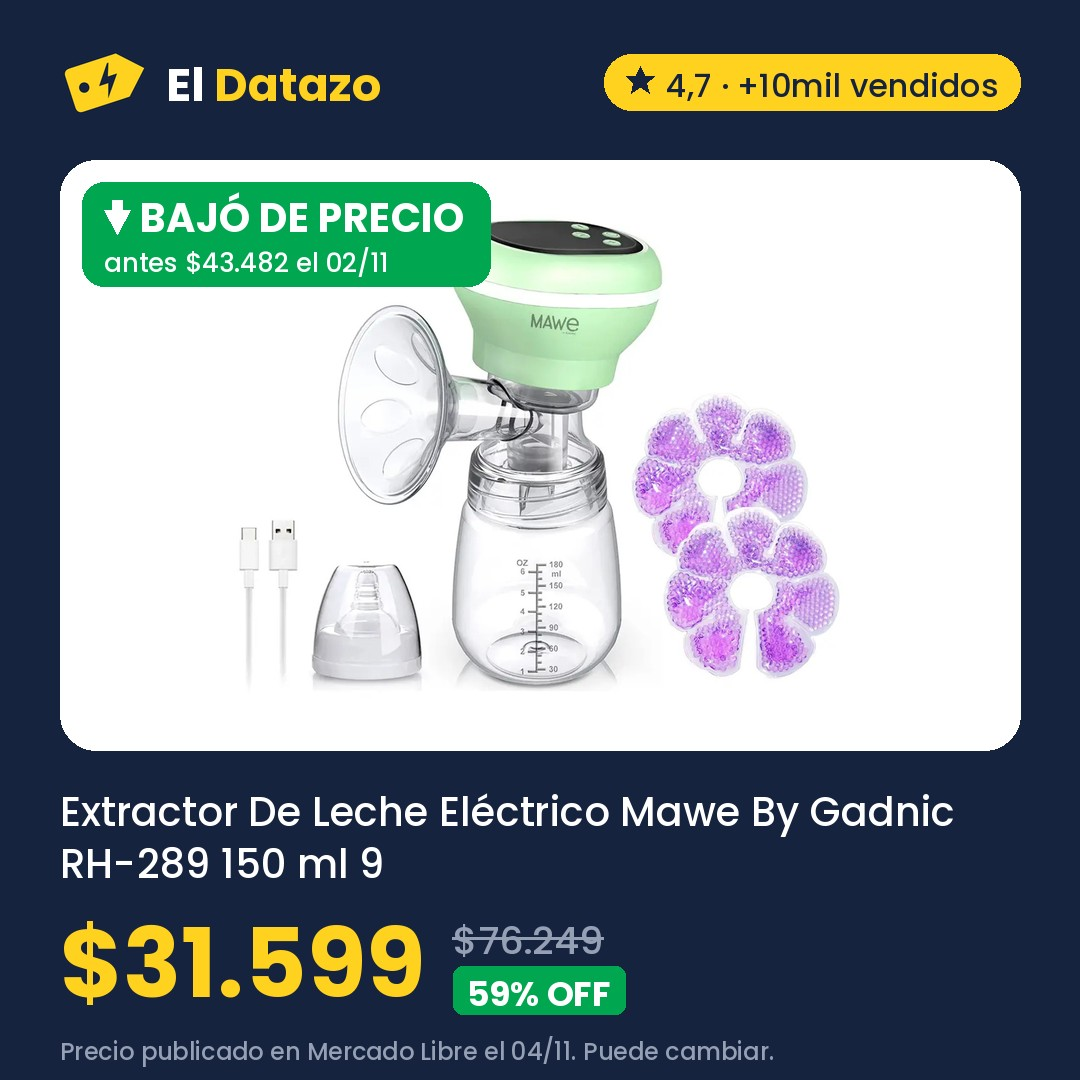
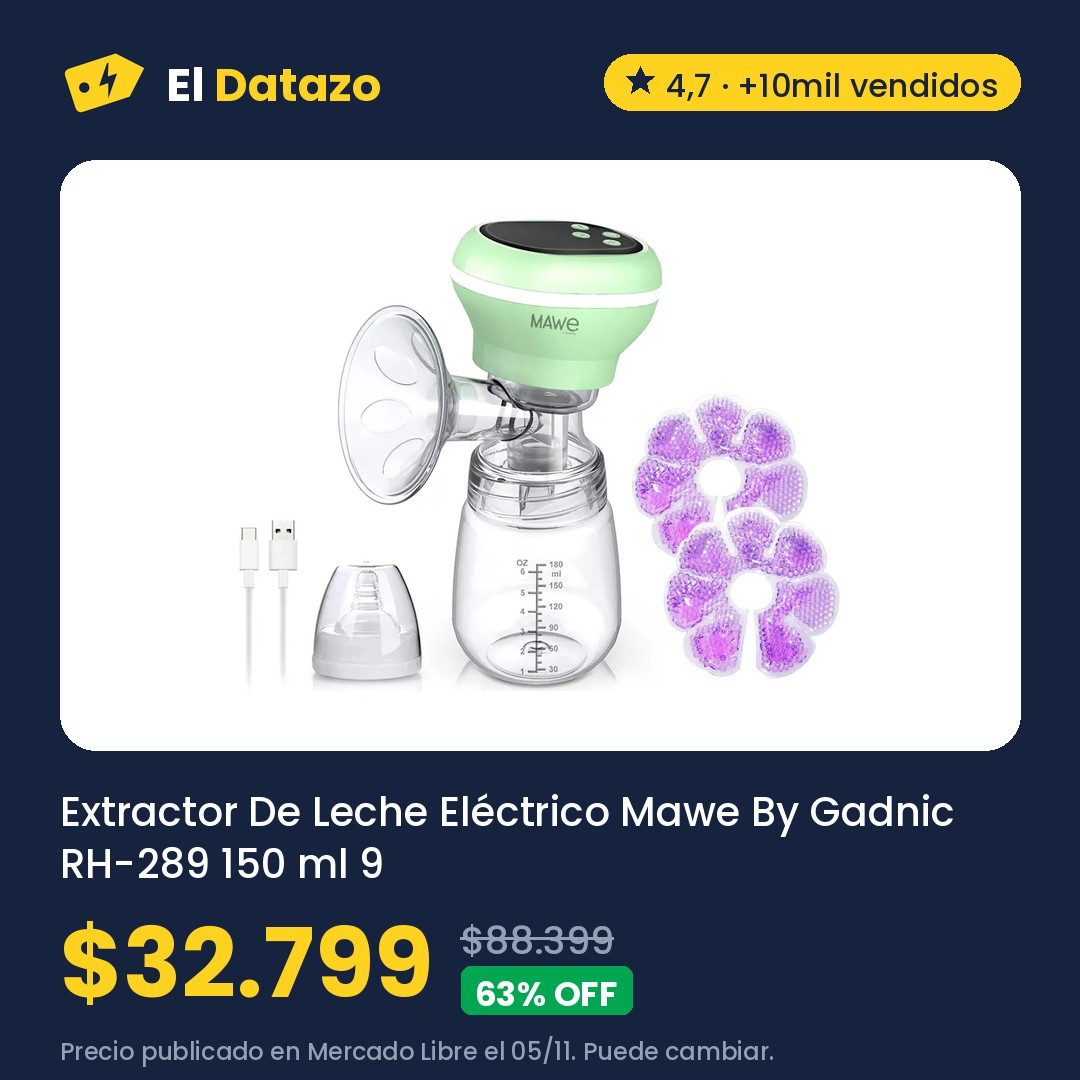
Ofertas 2026-11-05 23:31

Changed region(s): [[0.0611, 0.1528, 0.4583, 0.275], [0.1528, 0.8556, 0.6111, 0.9778]]

diff --git a/index.html b/index.html
@@ -290,23 +290,21 @@ padding:3px 9px;border-radius:999px}
     <div class="etiqueta">
       <p class="etiqueta-cabeza">El datazo de hoy <span class="sello">Quedan 6 días</span></p>
       <h2 id="hero-titulo">Extractor De Leche Eléctrico Mawe By Gadnic RH-289 150 ml 9 Niveles Pantalla LED Batería Recargable 1200mAh</h2>
-      <p class="hero-precio">$31.599</p>
-      <p class="hero-antes"><s>$76.249</s> <span class="off">59% OFF</span></p>
-      <p class="bajo pastilla"><b>⬇ Volvió y bajó</b> · Antes $43.482 el 02/11 · 27% menos</p>
-      <p class="nota">Precio del 04/11 en Mercado Libre, revisado hoy a las 16:32. Puede cambiar.</p>
+      <p class="hero-precio">$32.799</p>
+      <p class="hero-antes"><s>$88.399</s> <span class="off">63% OFF</span></p>
+      <p class="bajo pastilla"><b>⬇ Volvió</b> · Había terminado y volvió al mismo precio</p>
+      <p class="nota">Precio de hoy a las 20:31 en Mercado Libre. Puede cambiar.</p>
       <a class="boton oscuro" href="https://meli.la/314C11i" rel="sponsored noopener" target="_blank"
          data-oferta="MLA47200126">Ver oferta en Mercado Libre</a>
-      <a class="compartir" href="https://wa.me/?text=Mir%C3%A1%20este%20datazo%3A%20Extractor%20De%20Leche%20El%C3%A9ctrico%20Mawe%20By%20Gadnic%20RH-289%20150%20ml%209%20Niveles%20Pantalla%20LED%20Bater%C3%ADa%20Recargable%201200mAh%20a%20%2431.599%20https%3A//eldatazo.com.ar/%23MLA47200126" target="_blank" rel="noopener" data-estilo="texto"><svg viewBox="0 0 24 24" width="16" height="16" aria-hidden="true"><path d="M4 20l1.3-4A8 8 0 1 1 8 18.7L4 20z" fill="none" stroke="currentColor" stroke-width="2" stroke-linejoin="round"/></svg> Compartir por WhatsApp</a>
+      <a class="compartir" href="https://wa.me/?text=Mir%C3%A1%20este%20datazo%3A%20Extractor%20De%20Leche%20El%C3%A9ctrico%20Mawe%20By%20Gadnic%20RH-289%20150%20ml%209%20Niveles%20Pantalla%20LED%20Bater%C3%ADa%20Recargable%201200mAh%20a%20%2432.799%20https%3A//eldatazo.com.ar/%23MLA47200126" target="_blank" rel="noopener" data-estilo="texto"><svg viewBox="0 0 24 24" width="16" height="16" aria-hidden="true"><path d="M4 20l1.3-4A8 8 0 1 1 8 18.7L4 20z" fill="none" stroke="currentColor" stroke-width="2" stroke-linejoin="round"/></svg> Compartir por WhatsApp</a>
     </div>
   </section>
       
   <section class="franja-bajo" aria-labelledby="bajo-titulo">
-    <h2 id="bajo-titulo">⬇ Bajaron de precio <span>17</span></h2>
+    <h2 id="bajo-titulo">⬇ Bajaron de precio <span>18</span></h2>
     <ul class="franja-lista">
         <li><a href="#MLA73800060"><img src="img/MLA73800060.jpg" alt="" loading="lazy">
           <span><b>Libro: Primero Yo, Después El Resto: 120 Sesiones De Verdad</b><span class="ahora">$17.000</span><s>$33.000</s> <span class="bajo">⬇ Bajó</span></span></a></li>
-        <li><a href="#MLA47200126"><img src="img/MLA47200126.jpg" alt="" loading="lazy">
-          <span><b>Extractor De Leche Eléctrico Mawe By Gadnic RH-289 150 ml 9 Niveles Pantalla LED Batería Recargable 1200mAh</b><span class="ahora">$31.599</span><s>$43.482</s> <span class="bajo">⬇ Volvió y bajó</span></span></a></li>
         <li><a href="#MLA24729106"><img src="img/MLA24729106.jpg" alt="" loading="lazy">
           <span><b>Crique Hidraulico Carrito Gato Para Autos 2 Tn Mejor Calidad</b><span class="ahora">$47.890</span><s>$54.533</s> <span class="bajo">⬇ Bajó</span></span></a></li>
         <li><a href="#MLA19719361"><img src="img/MLA19719361.jpg" alt="" loading="lazy">
@@ -319,15 +317,16 @@ padding:3px 9px;border-radius:999px}
           <span><b>Cámara Digital Kodak Charmera RK0601 Retro Compacta para Llavero y Video</b><span class="ahora">$54.454</span><s>$57.573</s> <span class="bajo">⬇ Bajó</span></span></a></li>
         <li><a href="#MLA43803009"><img src="img/MLA43803009.jpg" alt="" loading="lazy">
           <span><b>Mochila Viaje Carry On Avion Porta Notebook Waggs Negro Lisa</b><span class="ahora">$45.087</span><s>$46.799</s> <span class="bajo">⬇ Volvió y bajó</span></span></a></li>
+        <li><a href="#MLA26204453"><img src="img/MLA26204453.jpg" alt="" loading="lazy">
+          <span><b>Bomba Desagote Agua Sucia Vasser De 400ps 400 Watts</b><span class="ahora">$68.843</span> <span class="bajo">⬇ Volvió</span></span></a></li>
+        <li><a href="#MLA47200126"><img src="img/MLA47200126.jpg" alt="" loading="lazy">
+          <span><b>Extractor De Leche Eléctrico Mawe By Gadnic RH-289 150 ml 9 Niveles Pantalla LED Batería Recargable 1200mAh</b><span class="ahora">$32.799</span> <span class="bajo">⬇ Volvió</span></span></a></li>
         <li><a href="#MLA22130330"><img src="img/MLA22130330.jpg" alt="" loading="lazy">
           <span><b>Buclera de Pelo Gadnic B3000 Rizador 3 Tubos 25 mm 150W 180 210 C</b><span class="ahora">$44.463</span> <span class="bajo">⬇ Volvió</span></span></a></li>
         <li><a href="#MLA28878536"><img src="img/MLA28878536.jpg" alt="" loading="lazy">
           <span><b>BOTIQUÍN DE BAÑO TRENTO AMUBE 30x50 CM | Espejo y Repisa | Melamina Blanca</b><span class="ahora">$44.999</span> <span class="bajo">⬇ Volvió</span></span></a></li>
         <li><a href="https://meli.la/1EDCkjd" rel="sponsored noopener" target="_blank" data-oferta="MLA26835194"><img src="https://http2.mlstatic.com/D_Q_NP_655367-MLA99502430822_112025-AB.webp" alt="" loading="lazy" referrerpolicy="no-referrer">
           <span><b>Marvel Spider Man 2 Ps5 Playstation 5 Edicion Lanzamiento</b><span class="ahora">$74.999</span><s>$100.000</s>
-          <span class="bajo">⬇ Bajó</span></span></a></li>
-        <li><a href="https://meli.la/2u6ovRr" rel="sponsored noopener" target="_blank" data-oferta="MLA56737724"><img src="https://http2.mlstatic.com/D_Q_NP_948263-MLA99983256261_112025-AB.webp" alt="" loading="lazy" referrerpolicy="no-referrer">
-          <span><b>Difusor Magnético Triopo TR08 con Domo y Filtros para Flashes de Zapata</b><span class="ahora">$20.680</span><s>$27.405</s>
           <span class="bajo">⬇ Bajó</span></span></a></li>
     </ul>
   </section>
@@ -348,10 +347,28 @@ padding:3px 9px;border-radius:999px}
             <option value="precio">Más baratas</option>
           </select></label>
       </div>
-      <div class="chips" role="group" aria-label="Rubro"><button type="button" data-filtro="" aria-pressed="true">Todo</button><button type="button" data-filtro="MLA1512" aria-pressed="false">Agro <span>2</span></button><button type="button" data-filtro="MLA1499" aria-pressed="false">Industrias y Oficinas <span>2</span></button><button type="button" data-filtro="MLA1246" aria-pressed="false">Belleza y Cuidado Personal <span>1</span></button><button type="button" data-filtro="MLA1144" aria-pressed="false">Consolas y Videojuegos <span>1</span></button><button type="button" data-filtro="MLA1500" aria-pressed="false">Construcción <span>1</span></button><button type="button" data-filtro="MLA1039" aria-pressed="false">Cámaras y Accesorios <span>1</span></button><button type="button" data-filtro="MLA1276" aria-pressed="false">Deportes y Fitness <span>1</span></button><button type="button" data-filtro="MLA3025" aria-pressed="false">Libros, Revistas y Comics <span>1</span></button><button type="button" data-filtro="MLA1430" aria-pressed="false">Ropa y Accesorios <span>1</span></button><button type="button" data-filtro="MLA409431" aria-pressed="false">Salud y Equipamiento Médico <span>1</span></button></div>
-      <p class="contador" aria-live="polite"><span data-cuenta>12</span> ofertas</p>
+      <div class="chips" role="group" aria-label="Rubro"><button type="button" data-filtro="" aria-pressed="true">Todo</button><button type="button" data-filtro="MLA1512" aria-pressed="false">Agro <span>3</span></button><button type="button" data-filtro="MLA1499" aria-pressed="false">Industrias y Oficinas <span>2</span></button><button type="button" data-filtro="MLA1246" aria-pressed="false">Belleza y Cuidado Personal <span>1</span></button><button type="button" data-filtro="MLA1144" aria-pressed="false">Consolas y Videojuegos <span>1</span></button><button type="button" data-filtro="MLA1500" aria-pressed="false">Construcción <span>1</span></button><button type="button" data-filtro="MLA1039" aria-pressed="false">Cámaras y Accesorios <span>1</span></button><button type="button" data-filtro="MLA1276" aria-pressed="false">Deportes y Fitness <span>1</span></button><button type="button" data-filtro="MLA3025" aria-pressed="false">Libros, Revistas y Comics <span>1</span></button><button type="button" data-filtro="MLA1430" aria-pressed="false">Ropa y Accesorios <span>1</span></button><button type="button" data-filtro="MLA409431" aria-pressed="false">Salud y Equipamiento Médico <span>1</span></button></div>
+      <p class="contador" aria-live="polite"><span data-cuenta>13</span> ofertas</p>
     </div>
     <div class="grilla activas">
+      <article class="tarjeta destacada" id="MLA26204453" data-rubro="MLA1512" data-off="19" data-pub="2026-11-05" data-quedan="7" data-precio="68843" data-bajo="1" data-texto="bomba desagote agua sucia vasser de 400ps 400 watts">
+        <div class="tarjeta-foto">
+          <img src="img/MLA26204453.jpg" alt="Bomba Desagote Agua Sucia Vasser De 400ps 400 Watts" loading="lazy" width="1080" height="1080">
+        </div>
+        <div class="cuerpo">
+          <div class="fila"><span class="sello baja">⬇ Volvió</span><span class="sello">Quedan 7 días</span><span class="rubro">Agro</span></div>
+          <h3>Bomba Desagote Agua Sucia Vasser De 400ps 400 Watts</h3>
+          <p class="precios "><span class="precio">$68.843</span><s class="antes">$85.441</s><span class="off">19% OFF</span></p>
+          <p class="bajo">Había terminado y volvió al mismo precio</p>
+          <p class="nota">Precio de hoy a las 20:31 en Mercado Libre. Puede cambiar.</p>
+          <div class="acciones">
+            <a class="boton" href="https://meli.la/19GEcXU" rel="sponsored noopener" target="_blank"
+               data-oferta="MLA26204453">Ver oferta</a>
+            <a class="compartir" href="https://wa.me/?text=Mir%C3%A1%20este%20datazo%3A%20Bomba%20Desagote%20Agua%20Sucia%20Vasser%20De%20400ps%20400%20Watts%20a%20%2468.843%20https%3A//eldatazo.com.ar/%23MLA26204453" target="_blank" rel="noopener"
+               aria-label="Compartir por WhatsApp" title="Compartir por WhatsApp"><svg viewBox="0 0 24 24" width="16" height="16" aria-hidden="true"><path d="M4 20l1.3-4A8 8 0 1 1 8 18.7L4 20z" fill="none" stroke="currentColor" stroke-width="2" stroke-linejoin="round"/></svg></a>
+          </div>
+        </div>
+      </article>
       <article class="tarjeta destacada" id="MLA19719361" data-rubro="MLA1499" data-off="45" data-pub="2026-11-02" data-quedan="4" data-precio="32899" data-bajo="11" data-texto="yelmo as-3240 aspiradora para auto recargable usb color gris">
         <div class="tarjeta-foto">
           <img src="img/MLA19719361.jpg" alt="Yelmo As-3240 Aspiradora Para Auto Recargable Usb Color Gris" loading="lazy" width="1080" height="1080">
@@ -361,7 +378,7 @@ padding:3px 9px;border-radius:999px}
           <h3>Yelmo As-3240 Aspiradora Para Auto Recargable Usb Color Gris</h3>
           <p class="precios "><span class="precio">$32.899</span><s class="antes">$59.899</s><span class="off">45% OFF</span></p>
           <p class="bajo">Antes $36.567 el 02/11 · 10% menos</p>
-          <p class="nota">Precio del 03/11 en Mercado Libre, revisado hoy a las 16:32. Puede cambiar.</p>
+          <p class="nota">Precio del 03/11 en Mercado Libre, revisado hoy a las 20:31. Puede cambiar.</p>
           <div class="acciones">
             <a class="boton" href="https://meli.la/1BA5g6k" rel="sponsored noopener" target="_blank"
                data-oferta="MLA19719361">Ver oferta</a>
@@ -379,7 +396,7 @@ padding:3px 9px;border-radius:999px}
           <h3>Buclera de Pelo Gadnic B3000 Rizador 3 Tubos 25 mm 150W 180 210 C</h3>
           <p class="precios "><span class="precio">$44.463</span><s class="antes">$100.099</s><span class="off">56% OFF</span></p>
           <p class="bajo">Había terminado y volvió al mismo precio</p>
-          <p class="nota">Precio del 03/11 en Mercado Libre, revisado hoy a las 16:32. Puede cambiar.</p>
+          <p class="nota">Precio del 03/11 en Mercado Libre, revisado hoy a las 20:31. Puede cambiar.</p>
           <div class="acciones">
             <a class="boton" href="https://meli.la/1HyqnAD" rel="sponsored noopener" target="_blank"
                data-oferta="MLA22130330">Ver oferta</a>
@@ -397,7 +414,7 @@ padding:3px 9px;border-radius:999px}
           <h3>Crique Hidraulico Carrito Gato Para Autos 2 Tn Mejor Calidad</h3>
           <p class="precios "><span class="precio">$47.890</span><s class="antes">$58.014</s><span class="off">17% OFF</span></p>
           <p class="bajo">Antes $54.533 el 01/11 · 12% menos</p>
-          <p class="nota">Precio del 02/11 en Mercado Libre, revisado hoy a las 16:32. Puede cambiar.</p>
+          <p class="nota">Precio del 02/11 en Mercado Libre, revisado hoy a las 20:31. Puede cambiar.</p>
           <div class="acciones">
             <a class="boton" href="https://meli.la/2ZwvMNb" rel="sponsored noopener" target="_blank"
                data-oferta="MLA24729106">Ver oferta</a>
@@ -415,7 +432,7 @@ padding:3px 9px;border-radius:999px}
           <h3>BOTIQUÍN DE BAÑO TRENTO AMUBE 30x50 CM | Espejo y Repisa | Melamina Blanca</h3>
           <p class="precios "><span class="precio">$44.999</span><s class="antes">$45.394</s><span class="off">1% OFF</span></p>
           <p class="bajo">Había terminado y volvió al mismo precio</p>
-          <p class="nota">Precio de hoy a las 16:32 en Mercado Libre. Puede cambiar.</p>
+          <p class="nota">Precio de hoy a las 20:31 en Mercado Libre. Puede cambiar.</p>
           <div class="acciones">
             <a class="boton" href="https://meli.la/2PKMfSp" rel="sponsored noopener" target="_blank"
                data-oferta="MLA28878536">Ver oferta</a>
@@ -433,7 +450,7 @@ padding:3px 9px;border-radius:999px}
           <h3>Mochila Viaje Carry On Avion Porta Notebook Waggs Negro Lisa</h3>
           <p class="precios "><span class="precio">$45.087</span><s class="antes">$96.758</s><span class="off">53% OFF</span></p>
           <p class="bajo">Antes $46.799 el 28/10 · 4% menos</p>
-          <p class="nota">Precio del 02/11 en Mercado Libre, revisado hoy a las 16:32. Puede cambiar.</p>
+          <p class="nota">Precio del 02/11 en Mercado Libre, revisado hoy a las 20:31. Puede cambiar.</p>
           <div class="acciones">
             <a class="boton" href="https://meli.la/1Y9GX65" rel="sponsored noopener" target="_blank"
                data-oferta="MLA43803009">Ver oferta</a>
@@ -451,7 +468,7 @@ padding:3px 9px;border-radius:999px}
           <h3>Libro: Primero Yo, Después El Resto: 120 Sesiones De Verdad</h3>
           <p class="precios "><span class="precio">$17.000</span></p>
           <p class="bajo">Antes $33.000 el 01/11 · 48% menos</p>
-          <p class="nota">Precio del 02/11 en Mercado Libre, revisado hoy a las 16:32. Puede cambiar.</p>
+          <p class="nota">Precio del 02/11 en Mercado Libre, revisado hoy a las 20:31. Puede cambiar.</p>
           <div class="acciones">
             <a class="boton" href="https://meli.la/2DQxPNs" rel="sponsored noopener" target="_blank"
                data-oferta="MLA73800060">Ver oferta</a>
@@ -469,7 +486,7 @@ padding:3px 9px;border-radius:999px}
           <h3>God Of War Ragnarok Ps4 Juego Físico Nuevo Sony Original</h3>
           <p class="precios "><span class="precio">$69.999</span><s class="antes">$149.999</s><span class="off">53% OFF</span></p>
           <p class="bajo">Antes $75.999 el 01/11 · 8% menos</p>
-          <p class="nota">Precio del 03/11 en Mercado Libre, revisado hoy a las 16:32. Puede cambiar.</p>
+          <p class="nota">Precio del 03/11 en Mercado Libre, revisado hoy a las 20:31. Puede cambiar.</p>
           <div class="acciones">
             <a class="boton" href="https://meli.la/217QPCu" rel="sponsored noopener" target="_blank"
                data-oferta="MLA19472094">Ver oferta</a>
@@ -487,7 +504,7 @@ padding:3px 9px;border-radius:999px}
           <h3>Silfab AL91 Almohadilla Eléctrica Espalda Large 41 X 28 Cm</h3>
           <p class="precios "><span class="precio">$46.932</span><s class="antes">$52.990</s><span class="off">11% OFF</span></p>
           <p class="bajo">Antes $50.465 el 24/10 · 7% menos</p>
-          <p class="nota">Precio del 02/11 en Mercado Libre, revisado hoy a las 16:32. Puede cambiar.</p>
+          <p class="nota">Precio del 02/11 en Mercado Libre, revisado hoy a las 20:31. Puede cambiar.</p>
           <div class="acciones">
             <a class="boton" href="https://meli.la/2cQdCWW" rel="sponsored noopener" target="_blank"
                data-oferta="MLA23456165">Ver oferta</a>
@@ -505,7 +522,7 @@ padding:3px 9px;border-radius:999px}
           <h3>Taladro Percutor Total Mandril 13mm 710w Tg107136 Color Turquesa Frecuencia 50 Hz x 60 Hz</h3>
           <p class="precios "><span class="precio">$70.220</span></p>
           
-          <p class="nota">Precio del 01/11 en Mercado Libre, revisado hoy a las 16:32. Puede cambiar.</p>
+          <p class="nota">Precio del 01/11 en Mercado Libre, revisado hoy a las 20:31. Puede cambiar.</p>
           <div class="acciones">
             <a class="boton" href="https://meli.la/2dUz2s5" rel="sponsored noopener" target="_blank"
                data-oferta="MLA29532448">Ver oferta</a>
@@ -523,7 +540,7 @@ padding:3px 9px;border-radius:999px}
           <h3>Cámara Digital Kodak Charmera RK0601 Retro Compacta para Llavero y Video</h3>
           <p class="precios "><span class="precio">$54.454</span><s class="antes">$80.000</s><span class="off">32% OFF</span></p>
           <p class="bajo">Antes $57.573 el 01/11 · 5% menos</p>
-          <p class="nota">Precio del 02/11 en Mercado Libre, revisado hoy a las 16:32. Puede cambiar.</p>
+          <p class="nota">Precio del 02/11 en Mercado Libre, revisado hoy a las 20:31. Puede cambiar.</p>
           <div class="acciones">
             <a class="boton" href="https://meli.la/2QAJKif" rel="sponsored noopener" target="_blank"
                data-oferta="MLA63186370">Ver oferta</a>
@@ -541,7 +558,7 @@ padding:3px 9px;border-radius:999px}
           <h3>Colchón Inflable Doble Klimber + Inflador + 2 Almohadas</h3>
           <p class="precios "><span class="precio">$47.514</span><s class="antes">$69.793</s><span class="off">32% OFF</span></p>
           
-          <p class="nota">Precio de hoy a las 16:32 en Mercado Libre. Puede cambiar.</p>
+          <p class="nota">Precio de hoy a las 20:31 en Mercado Libre. Puede cambiar.</p>
           <div class="acciones">
             <a class="boton" href="https://meli.la/19eMhmv" rel="sponsored noopener" target="_blank"
                data-oferta="MLA22764635">Ver oferta</a>
@@ -559,7 +576,7 @@ padding:3px 9px;border-radius:999px}
           <h3>Rotuladora Portátil Niimbot Etiquetadora Manual Impresora Color Blanco D110</h3>
           <p class="precios "><span class="precio">$40.596</span><s class="antes">$58.900</s><span class="off">31% OFF</span></p>
           
-          <p class="nota">Precio del 02/11 en Mercado Libre, revisado hoy a las 16:32. Puede cambiar.</p>
+          <p class="nota">Precio del 02/11 en Mercado Libre, revisado hoy a las 20:31. Puede cambiar.</p>
           <div class="acciones">
             <a class="boton" href="https://meli.la/1czSFp6" rel="sponsored noopener" target="_blank"
                data-oferta="MLA45260672">Ver oferta</a>
@@ -863,17 +880,6 @@ padding:3px 9px;border-radius:999px}
              data-oferta="MLA76118504">Ver precio de hoy</a>
         </div>
       </article>
-      <article class="tarjeta terminada" id="MLA26204453">
-        <div class="tarjeta-foto">
-          <img src="img/MLA26204453_terminada.jpg" alt="Bomba Desagote Agua Sucia Vasser De 400ps 400 Watts" loading="lazy" width="1080" height="1080">
-        </div>
-        <div class="cuerpo">
-          <h3>Bomba Desagote Agua Sucia Vasser De 400ps 400 Watts</h3>
-          <p class="nota">Terminó el 04/11. El link sigue abierto: mirá el precio de hoy.</p>
-          <a class="boton suave" href="https://meli.la/19GEcXU" rel="sponsored noopener" target="_blank"
-             data-oferta="MLA26204453">Ver precio de hoy</a>
-        </div>
-      </article>
       <article class="tarjeta terminada" id="MLA24496709">
         <div class="tarjeta-foto">
           <img src="img/MLA24496709_terminada.jpg" alt="Colchon Antiescaras Inflable Ortopedico Con Bomba Femmto" loading="lazy" width="1080" height="1080">
@@ -1160,6 +1166,17 @@ padding:3px 9px;border-radius:999px}
              data-oferta="MLA19686540">Ver precio de hoy</a>
         </div>
       </article>
+      <article class="tarjeta terminada" id="MLA42113284">
+        <div class="tarjeta-foto">
+          <img src="img/MLA42113284_terminada.jpg" alt="Mesa Exterior Plegable 180 Cm Polipropileno Hierro - Alpina Color Blanco" loading="lazy" width="1080" height="1080">
+        </div>
+        <div class="cuerpo">
+          <h3>Mesa Exterior Plegable 180 Cm Polipropileno Hierro - Alpina Color Blanco</h3>
+          <p class="nota">Terminó el 26/10. El link sigue abierto: mirá el precio de hoy.</p>
+          <a class="boton suave" href="https://meli.la/2UQdfmA" rel="sponsored noopener" target="_blank"
+             data-oferta="MLA42113284">Ver precio de hoy</a>
+        </div>
+      </article>
 </div></details>
     </div>
   </main>
@@ -1168,7 +1185,7 @@ padding:3px 9px;border-radius:999px}
       <nav class="redes" aria-label="Redes de El Datazo"><a class="red" href="https://www.instagram.com/eldatazo.arg/" target="_blank" rel="noopener"><svg viewBox="0 0 24 24" width="18" height="18" aria-hidden="true"><rect x="3" y="3" width="18" height="18" rx="5" fill="none" stroke="currentColor" stroke-width="2"/><circle cx="12" cy="12" r="4" fill="none" stroke="currentColor" stroke-width="2"/><circle cx="17.5" cy="6.5" r="1.3" fill="currentColor"/></svg> Instagram</a><a class="red" href="https://www.facebook.com/profile.php?id=61595441168911" target="_blank" rel="noopener"><svg viewBox="0 0 24 24" width="18" height="18" aria-hidden="true"><path d="M14 8h3V4h-3a4 4 0 0 0-4 4v2H7v4h3v8h4v-8h3l1-4h-4V8z" fill="currentColor"/></svg> Facebook</a><a class="red" href="https://t.me/eldatazo_ofertas" target="_blank" rel="noopener"><svg viewBox="0 0 24 24" width="18" height="18" aria-hidden="true"><path d="M21 4 3 11l5 2 2 6 3-4 5 4 3-15zM9 13l9-6-7 8" fill="none" stroke="currentColor" stroke-width="1.8" stroke-linejoin="round"/></svg> Telegram</a></nav>
       <p>Los links son de afiliado de Mercado Libre: si comprás, El Datazo puede recibir una comisión, sin que cambie
       tu precio. Los precios son los publicados en Mercado Libre el día indicado y pueden cambiar.</p>
-      <p>Actualizado el 05/11/2026 16:32 (hora argentina) · <a href="privacidad/">Privacidad</a></p>
+      <p>Actualizado el 05/11/2026 20:31 (hora argentina) · <a href="privacidad/">Privacidad</a></p>
     </div>
   </footer>
   
